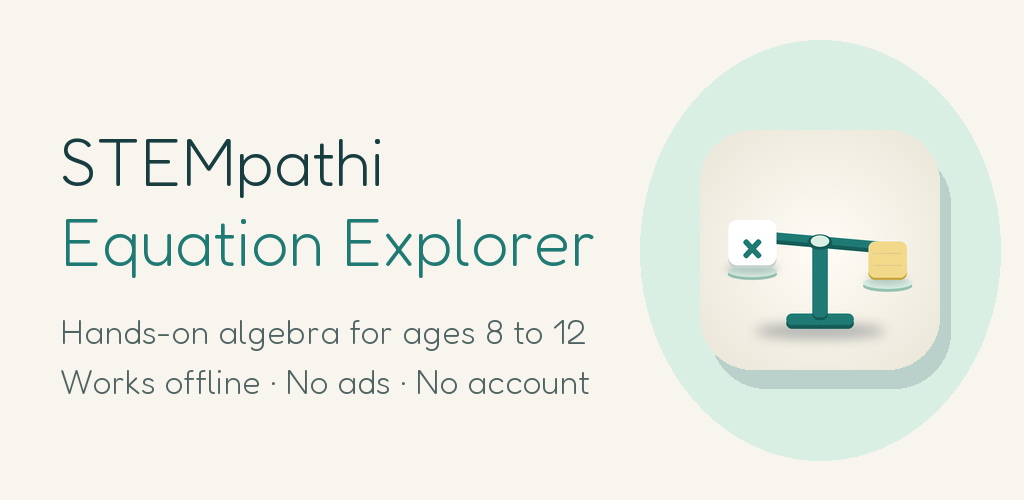
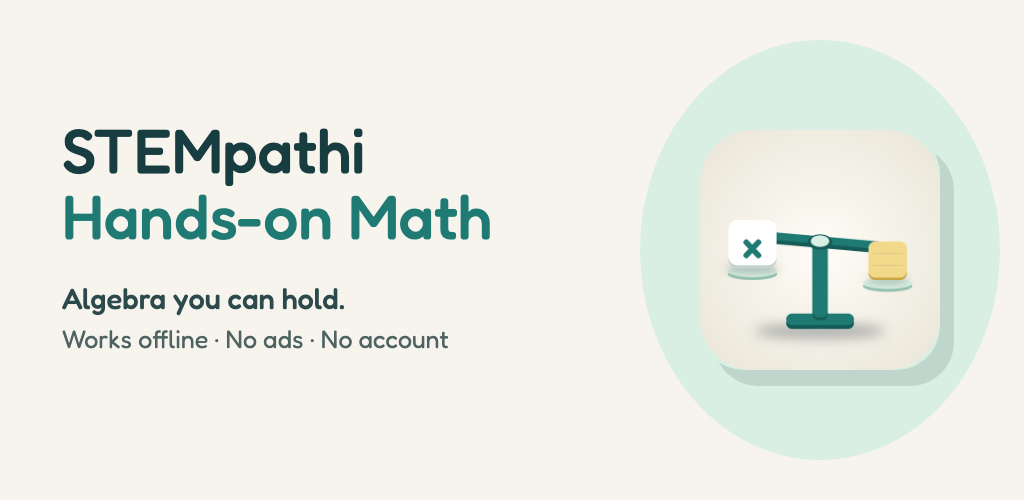
Rename the app to STEMpathi: Hands-on Math (#110) (#8)
Replaces draft #6 on top of the terms page (#7): same title and feature graphic.

diff --git a/privacy/index.html b/privacy/index.html
@@ -1,9 +1,9 @@
-<!doctype html><html lang="en"><head><meta charset="utf-8"><meta name="viewport" content="width=device-width,initial-scale=1,viewport-fit=cover"><link rel="icon" href="/img/icon-64.png"><link rel="apple-touch-icon" href="/img/icon-192.png"><link rel="preconnect" href="https://fonts.googleapis.com"><link rel="preconnect" href="https://fonts.gstatic.com" crossorigin><link href="https://fonts.googleapis.com/css2?family=Inter:wght@400;500;600;700&display=swap" rel="stylesheet"><link rel="stylesheet" href="/site.css"><title>Privacy policy — STEMpathi: Equation Explorer</title><meta name="description" content="STEMpathi: Equation Explorer keeps all learning data on the device. No accounts, no ads, no tracking."></head><body>
+<!doctype html><html lang="en"><head><meta charset="utf-8"><meta name="viewport" content="width=device-width,initial-scale=1,viewport-fit=cover"><link rel="icon" href="/img/icon-64.png"><link rel="apple-touch-icon" href="/img/icon-192.png"><link rel="preconnect" href="https://fonts.googleapis.com"><link rel="preconnect" href="https://fonts.gstatic.com" crossorigin><link href="https://fonts.googleapis.com/css2?family=Inter:wght@400;500;600;700&display=swap" rel="stylesheet"><link rel="stylesheet" href="/site.css"><title>Privacy policy — STEMpathi: Hands-on Math</title><meta name="description" content="STEMpathi: Hands-on Math keeps all learning data on the device. No accounts, no ads, no tracking."></head><body>
 <a class="skip" href="#main">Skip to content</a>
-<header><div class="wrap"><nav><a class="brand" href="/"><img src="/img/icon-64.png" alt="" width="36" height="36">STEMpathi <small>Equation Explorer</small></a><ul><li><a href="/#how">How it teaches</a></li><li><a href="/#families">For families</a></li><li><a href="/support/">Support</a></li><li><a href="/privacy/">Privacy</a></li></ul></nav></div></header>
-<main id="main"><div class="wrap doc"><div class="eyebrow">Privacy</div><h1>STEMpathi: Equation Explorer: privacy policy</h1><p class="meta">Updated October 26, 2026 · This is the same text shown inside the app under Settings › Privacy policy.</p>
+<header><div class="wrap"><nav><a class="brand" href="/"><img src="/img/icon-64.png" alt="" width="36" height="36">STEMpathi <small>Hands-on Math</small></a><ul><li><a href="/#how">How it teaches</a></li><li><a href="/#families">For families</a></li><li><a href="/support/">Support</a></li><li><a href="/privacy/">Privacy</a></li></ul></nav></div></header>
+<main id="main"><div class="wrap doc"><div class="eyebrow">Privacy</div><h1>STEMpathi: Hands-on Math: privacy policy</h1><p class="meta">Updated October 26, 2026 · This is the same text shown inside the app under Settings › Privacy policy.</p>
 <div class="card" style="margin:18px 0 26px"><h3>In one sentence</h3><p style="color:var(--ink)">The app collects nothing: no name, no email, no account, no analytics, no ads. Progress stays on your device and is deleted when you clear the app's storage.</p></div>
-<h2>About This App</h2><p>STEMpathi: Equation Explorer is provided under the Sripathi.One developer brand. This policy describes the current offline app, not unrelated websites or future services. Privacy and support contact: r2k8@sripathi.one.</p><h2>Information On Your Device</h2><p>The app stores optional age-band and math-experience choices, hint preferences, appearance/accessibility settings, puzzle progress, learning-day streaks, explanation-check results and unfinished puzzle state. These records are used for local recommendations, progress and recovery. The app does not ask for a learner&#x27;s name, exact birthday, email address or account. Age-band selection is optional and is not identity verification.</p><h2>Collection And Sharing</h2><p>The current app has no learner login, advertising, analytics, social posting, in-app purchases or runtime AI service. It does not transmit learner profiles, answers or progress to Sripathi.One or an app-operated server. It does not request access to contacts, location, microphone or camera. We do not sell learner data.</p><h2>Platform Services</h2><p>Google Play and the device operating system may process downloads, security checks, diagnostics or store information under their own policies. The inspected Android candidate disables Android app backup. Device transfer, manufacturer tools and future platform behavior can differ; platform services are not operated by Sripathi.One.</p><h2>Retention And Deletion</h2><p>Local records remain until deleted from the device. Learner setup can be erased in the app&#x27;s learner setup screen; this does not erase all puzzle progress. To remove all local app records on Android, use system Settings &gt; Apps &gt; STEMpathi &gt; Storage &gt; Clear storage (labels vary by device). This permanently removes local preferences and progress. Uninstalling ordinarily removes app-local records, subject to device/platform retention behavior. There is no app-operated server account or learner database to delete.</p><h2>Children And Families</h2><p>The app is intended for learning, including younger learners, with local data minimization. It does not offer child chat, public profiles or online sharing. Adults should handle support requests and device-level deletion. Do not send children&#x27;s names, faces, account details or private school information in feedback.</p><h2>Support Email</h2><p>If you email r2k8@sripathi.one, we receive the address, message and attachments you choose to send. Use a device/build description and reproducible steps instead of sensitive learner information. Support correspondence is separate from offline gameplay. It is used to respond, troubleshoot and maintain necessary support records, and may be processed by our email provider. You may request deletion of your support correspondence; necessary legal/security records may be retained where required.</p><h2>Security And Changes</h2><p>The app relies on device access controls for local records. No storage method is completely secure. New cloud, account, telemetry, payment or AI features will require an updated policy and appropriate safeguards before release. The current policy is available offline from Settings &gt; Privacy policy.</p><h2>Contact</h2><p>Sripathi.One — STEMpathi: Equation Explorer</p><p>r2k8@sripathi.one</p>
+<h2>About This App</h2><p>STEMpathi: Hands-on Math is provided under the Sripathi.One developer brand. This policy describes the current offline app, not unrelated websites or future services. Privacy and support contact: r2k8@sripathi.one.</p><h2>Information On Your Device</h2><p>The app stores optional age-band and math-experience choices, hint preferences, appearance/accessibility settings, puzzle progress, learning-day streaks, explanation-check results and unfinished puzzle state. These records are used for local recommendations, progress and recovery. The app does not ask for a learner&#x27;s name, exact birthday, email address or account. Age-band selection is optional and is not identity verification.</p><h2>Collection And Sharing</h2><p>The current app has no learner login, advertising, analytics, social posting, in-app purchases or runtime AI service. It does not transmit learner profiles, answers or progress to Sripathi.One or an app-operated server. It does not request access to contacts, location, microphone or camera. We do not sell learner data.</p><h2>Platform Services</h2><p>Google Play and the device operating system may process downloads, security checks, diagnostics or store information under their own policies. The inspected Android candidate disables Android app backup. Device transfer, manufacturer tools and future platform behavior can differ; platform services are not operated by Sripathi.One.</p><h2>Retention And Deletion</h2><p>Local records remain until deleted from the device. Learner setup can be erased in the app&#x27;s learner setup screen; this does not erase all puzzle progress. To remove all local app records on Android, use system Settings &gt; Apps &gt; STEMpathi &gt; Storage &gt; Clear storage (labels vary by device). This permanently removes local preferences and progress. Uninstalling ordinarily removes app-local records, subject to device/platform retention behavior. There is no app-operated server account or learner database to delete.</p><h2>Children And Families</h2><p>The app is intended for learning, including younger learners, with local data minimization. It does not offer child chat, public profiles or online sharing. Adults should handle support requests and device-level deletion. Do not send children&#x27;s names, faces, account details or private school information in feedback.</p><h2>Support Email</h2><p>If you email r2k8@sripathi.one, we receive the address, message and attachments you choose to send. Use a device/build description and reproducible steps instead of sensitive learner information. Support correspondence is separate from offline gameplay. It is used to respond, troubleshoot and maintain necessary support records, and may be processed by our email provider. You may request deletion of your support correspondence; necessary legal/security records may be retained where required.</p><h2>Security And Changes</h2><p>The app relies on device access controls for local records. No storage method is completely secure. New cloud, account, telemetry, payment or AI features will require an updated policy and appropriate safeguards before release. The current policy is available offline from Settings &gt; Privacy policy.</p><h2>Contact</h2><p>Sripathi.One — STEMpathi: Hands-on Math</p><p>r2k8@sripathi.one</p>
 </div></main>
-<footer><div class="wrap"><div class="row"><div><strong style="color:var(--ink)">STEMpathi: Equation Explorer</strong><br>Made by Sripathi.One<br>© 2026 Sripathi.One. All rights reserved.</div><ul><li><a href="/privacy/">Privacy policy</a></li><li><a href="/support/">Support</a></li><li><a href="/terms/">Terms</a></li><li><a href="https://sripathi.one">Sripathi.One</a></li></ul></div><p style="margin-top:18px;max-width:80ch">This site has no cookies, analytics or tracking scripts. Google Play and the Google Play logo are trademarks of Google LLC. Screenshots are from the current development build.</p></div></footer>
+<footer><div class="wrap"><div class="row"><div><strong style="color:var(--ink)">STEMpathi: Hands-on Math</strong><br>Made by Sripathi.One<br>© 2026 Sripathi.One. All rights reserved.</div><ul><li><a href="/privacy/">Privacy policy</a></li><li><a href="/support/">Support</a></li><li><a href="/terms/">Terms</a></li><li><a href="https://sripathi.one">Sripathi.One</a></li></ul></div><p style="margin-top:18px;max-width:80ch">This site has no cookies, analytics or tracking scripts. Google Play and the Google Play logo are trademarks of Google LLC. Screenshots are from the current development build.</p></div></footer>
 </body></html>

diff --git a/support/index.html b/support/index.html
@@ -1,7 +1,7 @@
-<!doctype html><html lang="en"><head><meta charset="utf-8"><meta name="viewport" content="width=device-width,initial-scale=1,viewport-fit=cover"><link rel="icon" href="/img/icon-64.png"><link rel="apple-touch-icon" href="/img/icon-192.png"><link rel="preconnect" href="https://fonts.googleapis.com"><link rel="preconnect" href="https://fonts.gstatic.com" crossorigin><link href="https://fonts.googleapis.com/css2?family=Inter:wght@400;500;600;700&display=swap" rel="stylesheet"><link rel="stylesheet" href="/site.css"><title>Support — STEMpathi: Equation Explorer</title><meta name="description" content="Help and contact for STEMpathi: Equation Explorer."></head><body>
+<!doctype html><html lang="en"><head><meta charset="utf-8"><meta name="viewport" content="width=device-width,initial-scale=1,viewport-fit=cover"><link rel="icon" href="/img/icon-64.png"><link rel="apple-touch-icon" href="/img/icon-192.png"><link rel="preconnect" href="https://fonts.googleapis.com"><link rel="preconnect" href="https://fonts.gstatic.com" crossorigin><link href="https://fonts.googleapis.com/css2?family=Inter:wght@400;500;600;700&display=swap" rel="stylesheet"><link rel="stylesheet" href="/site.css"><title>Support — STEMpathi: Hands-on Math</title><meta name="description" content="Help and contact for STEMpathi: Hands-on Math."></head><body>
 <a class="skip" href="#main">Skip to content</a>
-<header><div class="wrap"><nav><a class="brand" href="/"><img src="/img/icon-64.png" alt="" width="36" height="36">STEMpathi <small>Equation Explorer</small></a><ul><li><a href="/#how">How it teaches</a></li><li><a href="/#families">For families</a></li><li><a href="/support/">Support</a></li><li><a href="/privacy/">Privacy</a></li></ul></nav></div></header>
-<main id="main"><div class="wrap doc"><div class="eyebrow">Support</div><h1>We're here to help.</h1><p class="lead">STEMpathi: Equation Explorer is a visual algebra app for children. It works offline, has no accounts, no ads and no tracking, and keeps progress on your device.</p>
+<header><div class="wrap"><nav><a class="brand" href="/"><img src="/img/icon-64.png" alt="" width="36" height="36">STEMpathi <small>Hands-on Math</small></a><ul><li><a href="/#how">How it teaches</a></li><li><a href="/#families">For families</a></li><li><a href="/support/">Support</a></li><li><a href="/privacy/">Privacy</a></li></ul></nav></div></header>
+<main id="main"><div class="wrap doc"><div class="eyebrow">Support</div><h1>We're here to help.</h1><p class="lead">STEMpathi: Hands-on Math is a visual algebra app for children. It works offline, has no accounts, no ads and no tracking, and keeps progress on your device.</p>
 <div class="card" style="margin:18px 0 30px"><h3>Contact</h3><p style="color:var(--ink)">Email <a href="mailto:r2k8@sripathi.one">r2k8@sripathi.one</a>. We reply within a few days. Please include your phone model, Android version and the app version shown in Settings. Do not include a child's name, photo or school.</p></div><div class="card" style="margin:0 0 30px"><h3>Updates and community</h3><p style="color:var(--ink)">Join our <a href="https://chat.whatsapp.com/KOaxqfOwzSR8U9sJGim0v2" rel="noopener">WhatsApp community</a> for news of each new version and to share feedback. For grown-ups only; please don't post children's names, photos or schools.</p></div>
 <h2>Common questions</h2>
 <details open><summary>Progress disappeared</summary><p>Progress is stored only on the device. Uninstalling the app or clearing its storage removes it; updating the app does not. A phone backup or transfer may not carry it over.</p></details>
@@ -11,5 +11,5 @@
 <details><summary>Refunds</summary><p>Purchases are handled by Google Play. Request a refund from your Google Play order history; Google's refund policy applies.</p></details>
 <h2>Privacy</h2><p>Read the <a href="/privacy/">privacy policy</a>. We never ask for a child's name or any personal details.</p>
 </div></main>
-<footer><div class="wrap"><div class="row"><div><strong style="color:var(--ink)">STEMpathi: Equation Explorer</strong><br>Made by Sripathi.One<br>© 2026 Sripathi.One. All rights reserved.</div><ul><li><a href="/privacy/">Privacy policy</a></li><li><a href="/support/">Support</a></li><li><a href="/terms/">Terms</a></li><li><a href="https://sripathi.one">Sripathi.One</a></li></ul></div><p style="margin-top:18px;max-width:80ch">This site has no cookies, analytics or tracking scripts. Google Play and the Google Play logo are trademarks of Google LLC. Screenshots are from the current development build.</p></div></footer>
+<footer><div class="wrap"><div class="row"><div><strong style="color:var(--ink)">STEMpathi: Hands-on Math</strong><br>Made by Sripathi.One<br>© 2026 Sripathi.One. All rights reserved.</div><ul><li><a href="/privacy/">Privacy policy</a></li><li><a href="/support/">Support</a></li><li><a href="/terms/">Terms</a></li><li><a href="https://sripathi.one">Sripathi.One</a></li></ul></div><p style="margin-top:18px;max-width:80ch">This site has no cookies, analytics or tracking scripts. Google Play and the Google Play logo are trademarks of Google LLC. Screenshots are from the current development build.</p></div></footer>
 </body></html>

diff --git a/terms/index.html b/terms/index.html
@@ -1,6 +1,6 @@
-<!doctype html><html lang="en"><head><meta charset="utf-8"><meta name="viewport" content="width=device-width,initial-scale=1,viewport-fit=cover"><link rel="icon" href="/img/icon-64.png"><link rel="apple-touch-icon" href="/img/icon-192.png"><link rel="preconnect" href="https://fonts.googleapis.com"><link rel="preconnect" href="https://fonts.gstatic.com" crossorigin><link href="https://fonts.googleapis.com/css2?family=Inter:wght@400;500;600;700&display=swap" rel="stylesheet"><link rel="stylesheet" href="/site.css"><title>Terms of use — STEMpathi: Equation Explorer</title><meta name="description" content="Terms of use for STEMpathi: Equation Explorer."></head><body>
+<!doctype html><html lang="en"><head><meta charset="utf-8"><meta name="viewport" content="width=device-width,initial-scale=1,viewport-fit=cover"><link rel="icon" href="/img/icon-64.png"><link rel="apple-touch-icon" href="/img/icon-192.png"><link rel="preconnect" href="https://fonts.googleapis.com"><link rel="preconnect" href="https://fonts.gstatic.com" crossorigin><link href="https://fonts.googleapis.com/css2?family=Inter:wght@400;500;600;700&display=swap" rel="stylesheet"><link rel="stylesheet" href="/site.css"><title>Terms of use — STEMpathi: Hands-on Math</title><meta name="description" content="Terms of use for STEMpathi: Hands-on Math."></head><body>
 <a class="skip" href="#main">Skip to content</a>
-<header><div class="wrap"><nav><a class="brand" href="/"><img src="/img/icon-64.png" alt="" width="36" height="36">STEMpathi <small>Equation Explorer</small></a><ul><li><a href="/#how">How it teaches</a></li><li><a href="/#families">For families</a></li><li><a href="/support/">Support</a></li><li><a href="/privacy/">Privacy</a></li></ul></nav></div></header>
+<header><div class="wrap"><nav><a class="brand" href="/"><img src="/img/icon-64.png" alt="" width="36" height="36">STEMpathi <small>Hands-on Math</small></a><ul><li><a href="/#how">How it teaches</a></li><li><a href="/#families">For families</a></li><li><a href="/support/">Support</a></li><li><a href="/privacy/">Privacy</a></li></ul></nav></div></header>
 <main id="main"><div class="wrap doc"><div class="eyebrow">Terms</div><h1>Terms of use</h1><p class="meta">Dated 10 November 2026</p>
 <div class="card" style="margin:18px 0 26px"><h3>In one sentence</h3><p style="color:var(--ink)">Families are welcome to use STEMpathi for learning at home, but the app and everything in it belong to Sripathi.One and may not be copied.</p></div>
 <h2>Who owns STEMpathi</h2><p>STEMpathi, including the app, its code, lessons, puzzles, art (including the character Avi), voice recordings and this website, is owned by Sripathi.One. All rights reserved. Copyright © 2026 Sripathi.One.</p>
@@ -10,5 +10,5 @@
 <h2>Using the app</h2><p>The app is provided as is. Children should use it with a grown-up's guidance.</p>
 <h2>Questions</h2><p>For questions, or to tell us about a copy of STEMpathi, please use the <a href="/support/">support page</a>.</p>
 </div></main>
-<footer><div class="wrap"><div class="row"><div><strong style="color:var(--ink)">STEMpathi: Equation Explorer</strong><br>Made by Sripathi.One<br>© 2026 Sripathi.One. All rights reserved.</div><ul><li><a href="/privacy/">Privacy policy</a></li><li><a href="/support/">Support</a></li><li><a href="/terms/">Terms</a></li><li><a href="https://sripathi.one">Sripathi.One</a></li></ul></div><p style="margin-top:18px;max-width:80ch">This site has no cookies, analytics or tracking scripts. Google Play and the Google Play logo are trademarks of Google LLC. Screenshots are from the current development build.</p></div></footer>
+<footer><div class="wrap"><div class="row"><div><strong style="color:var(--ink)">STEMpathi: Hands-on Math</strong><br>Made by Sripathi.One<br>© 2026 Sripathi.One. All rights reserved.</div><ul><li><a href="/privacy/">Privacy policy</a></li><li><a href="/support/">Support</a></li><li><a href="/terms/">Terms</a></li><li><a href="https://sripathi.one">Sripathi.One</a></li></ul></div><p style="margin-top:18px;max-width:80ch">This site has no cookies, analytics or tracking scripts. Google Play and the Google Play logo are trademarks of Google LLC. Screenshots are from the current development build.</p></div></footer>
 </body></html>

diff --git a/index.html b/index.html
@@ -2,13 +2,13 @@
 <html lang="en"><head>
 <meta charset="utf-8"><meta name="viewport" content="width=device-width,initial-scale=1,viewport-fit=cover">
 <link rel="icon" href="/img/icon-64.png"><link rel="stylesheet" href="/site.css?v=20261105">
-<title>STEMpathi: Equation Explorer | Hands-on algebra</title>
+<title>STEMpathi: Hands-on Math | Algebra you can touch</title>
 <meta name="description" content="Explore algebra by moving blocks on a balance. STEMpathi is an Android learning app for ages 6–12, now in closed beta. Parents and tutors can request access.">
 <link rel="canonical" href="https://stempathi.sripathi.one/">
-<meta property="og:title" content="STEMpathi: Equation Explorer"><meta property="og:description" content="See why both sides change together. Explore the latest lesson previews and request Android closed-beta access."><meta property="og:image" content="https://stempathi.sripathi.one/img/balance-preview-20261104.jpg"><meta property="og:url" content="https://stempathi.sripathi.one/">
+<meta property="og:title" content="STEMpathi: Hands-on Math"><meta property="og:description" content="See why both sides change together. Explore the latest lesson previews and request Android closed-beta access."><meta property="og:image" content="https://stempathi.sripathi.one/img/balance-preview-20261104.jpg"><meta property="og:url" content="https://stempathi.sripathi.one/">
 </head><body>
 <a class="skip" href="#main">Skip to content</a>
-<header><div class="wrap"><nav aria-label="Main navigation"><a class="brand" href="/"><img src="/img/icon-64.png" alt="" width="36" height="36">STEMpathi <small>Equation Explorer</small></a><ul><li><a href="#how">The lessons</a></li><li><a href="#families">For families</a></li><li><a href="/support/">Support</a></li></ul></nav></div></header>
+<header><div class="wrap"><nav aria-label="Main navigation"><a class="brand" href="/"><img src="/img/icon-64.png" alt="" width="36" height="36">STEMpathi <small>Hands-on Math</small></a><ul><li><a href="#how">The lessons</a></li><li><a href="#families">For families</a></li><li><a href="/support/">Support</a></li></ul></nav></div></header>
 <main id="main"><div class="wrap"><div class="hero"><div>
 <div class="eyebrow"><span class="status-dot"></span> Android closed beta · Ages 6–12</div>
 <h1>See the balance.<br><em>Work out the why.</em></h1>
@@ -40,5 +40,5 @@
 <p class="preview-note">The closed test is free. If Google says the app is unavailable, check the signed-in account and complete step 2 first. Access can take a little time to update. If it still does not work, <a href="/support/">contact us</a>.</p>
 <p class="beta-note">Installed? <a href="/test/">Read the tester guide</a> for what to try and how to send feedback.</p>
 </div></section>
-</main><footer><div class="wrap"><div class="row"><div><strong>STEMpathi: Equation Explorer</strong><br>Made by Sripathi.One<br>© 2026 Sripathi.One. All rights reserved.</div><ul><li><a href="/privacy/">Privacy policy</a></li><li><a href="/support/">Support</a></li><li><a href="/terms/">Terms</a></li><li><a href="https://sripathi.one">Sripathi.One</a></li></ul></div><p class="footer-note">This page uses no analytics or advertising trackers. Screenshots are development previews dated November 3–4, 2026.</p></div></footer>
+</main><footer><div class="wrap"><div class="row"><div><strong>STEMpathi: Hands-on Math</strong><br>Made by Sripathi.One<br>© 2026 Sripathi.One. All rights reserved.</div><ul><li><a href="/privacy/">Privacy policy</a></li><li><a href="/support/">Support</a></li><li><a href="/terms/">Terms</a></li><li><a href="https://sripathi.one">Sripathi.One</a></li></ul></div><p class="footer-note">This page uses no analytics or advertising trackers. Screenshots are development previews dated November 3–4, 2026.</p></div></footer>
 </body></html>

diff --git a/test/index.html b/test/index.html
@@ -1,6 +1,6 @@
 <!doctype html><html lang="en"><head><meta charset="utf-8"><meta name="viewport" content="width=device-width,initial-scale=1"><link rel="icon" href="/img/icon-64.png"><link rel="stylesheet" href="/site.css?v=20261105"><meta name="robots" content="noindex"><title>Join the beta and tester guide | STEMpathi</title></head><body>
 <a class="skip" href="#main">Skip to content</a>
-<header><div class="wrap"><nav aria-label="Main navigation"><a class="brand" href="/"><img src="/img/icon-64.png" alt="" width="36" height="36">STEMpathi <small>Equation Explorer</small></a><ul><li><a href="/#join">Join the beta</a></li><li><a href="/support/">Support</a></li><li><a href="/privacy/">Privacy</a></li></ul></nav></div></header>
+<header><div class="wrap"><nav aria-label="Main navigation"><a class="brand" href="/"><img src="/img/icon-64.png" alt="" width="36" height="36">STEMpathi <small>Hands-on Math</small></a><ul><li><a href="/#join">Join the beta</a></li><li><a href="/support/">Support</a></li><li><a href="/privacy/">Privacy</a></li></ul></nav></div></header>
 <main id="main"><div class="wrap doc"><div class="eyebrow">Android closed beta</div><h1>Join the test, then explore a few lessons.</h1><p>The test build is free. An adult requests access and installs the app. Complete the steps below in order, using the same Google account throughout.</p>
 <h2>1. Send your Google Play email</h2><p>Email <a href="mailto:r2k8@sripathi.one?subject=STEMpathi%20beta%20access">r2k8@sripathi.one</a> with the Google-account address you use for Play Store downloads. We will add it to the tester list. <strong>Wait for us to confirm that you have been added.</strong> Do not send a child's email or personal details.</p>
 <h2>2. Become a tester</h2><p>After our confirmation, <a href="https://play.google.com/apps/testing/one.sripathi.equationexplorer">open the tester opt-in page</a>. Sign in using the address you gave us and choose <strong>Become a tester</strong>.</p><p><a class="button" href="https://play.google.com/apps/testing/one.sripathi.equationexplorer">Become a tester ↗</a></p>
@@ -10,5 +10,5 @@
 <h2>Tell us what happened</h2><p>Email <a href="mailto:r2k8@sripathi.one?subject=STEMpathi%20beta%20feedback">r2k8@sripathi.one</a> or use Google Play's developer-feedback option. You can also join our <a href="https://chat.whatsapp.com/KOaxqfOwzSR8U9sJGim0v2" rel="noopener">WhatsApp community</a>, where we post each new version and you can share feedback. Useful details are the phone model, Android version, what you tapped, what you expected and what happened. For a mathematical concern, include the equation shown.</p><p>Please do not send children's names, exact ages, schools, photos or recordings. A screenshot of the app without personal information is enough.</p>
 <p>Return for another session if you find it useful, and tell us what helped or confused your learner. Enrollment alone is not a substitute for testing.</p>
 <h2>Privacy and support</h2><p><a href="/privacy/">Read the privacy policy</a> · <a href="/support/">Get support</a></p>
-</div></main><footer><div class="wrap"><a href="/">STEMpathi: Equation Explorer</a> · Made by Sripathi.One · © 2026 Sripathi.One. All rights reserved. · <a href="/privacy/">Privacy</a> · <a href="/support/">Support</a> · <a href="/terms/">Terms</a></div></footer>
+</div></main><footer><div class="wrap"><a href="/">STEMpathi: Hands-on Math</a> · Made by Sripathi.One · © 2026 Sripathi.One. All rights reserved. · <a href="/privacy/">Privacy</a> · <a href="/support/">Support</a> · <a href="/terms/">Terms</a></div></footer>
 </body></html>
